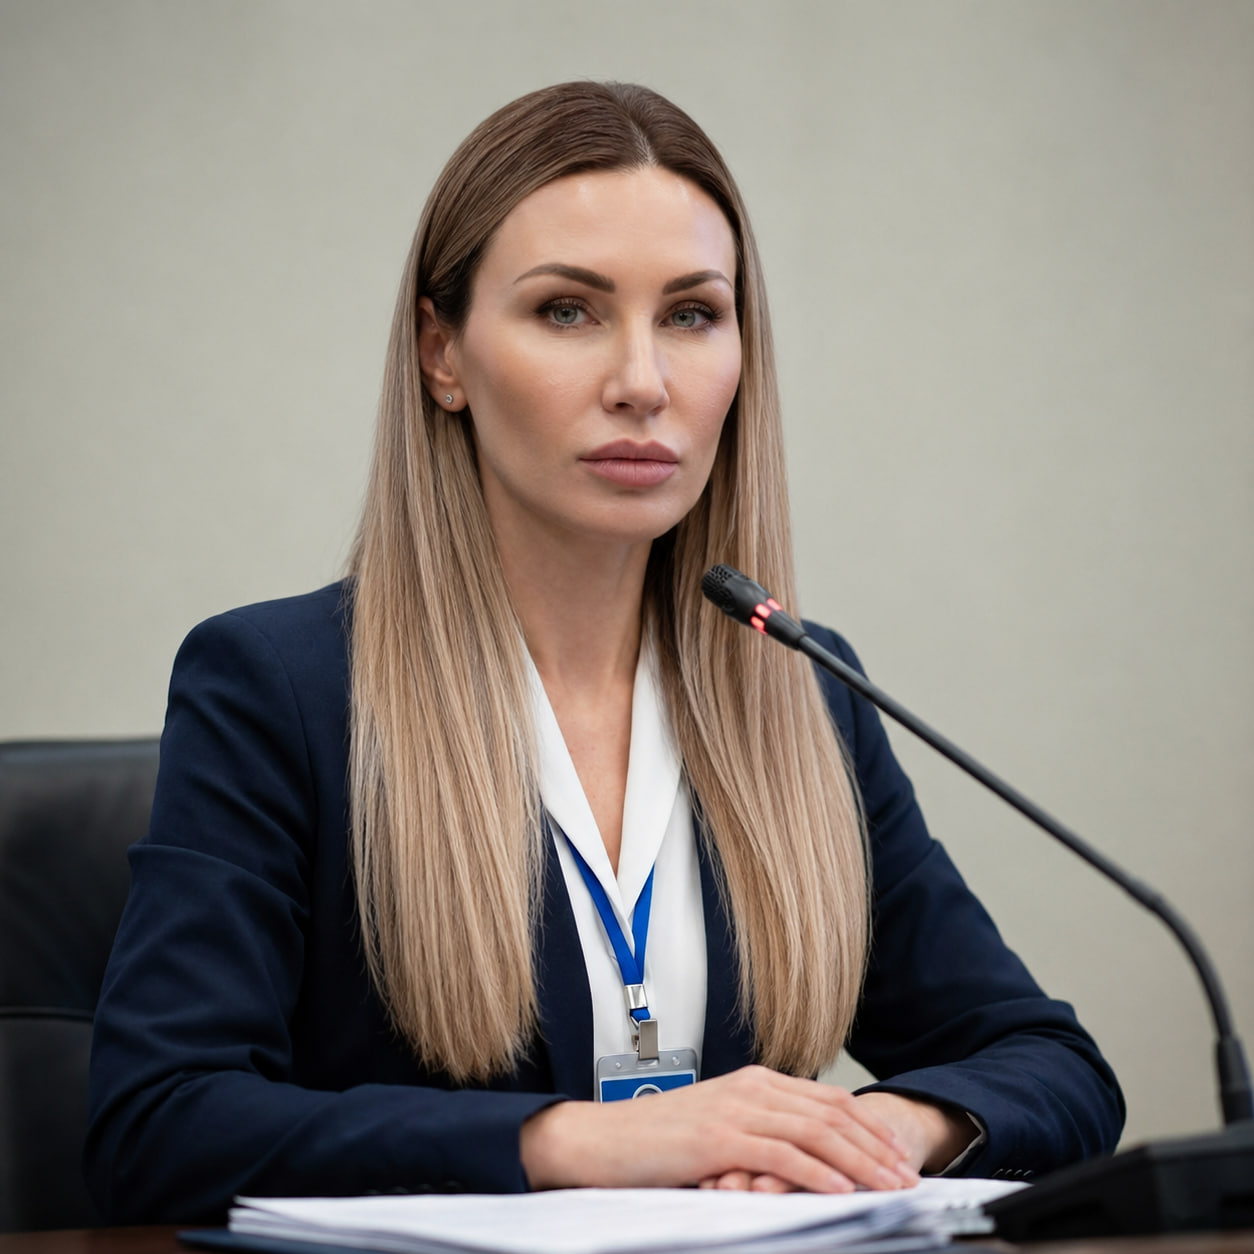
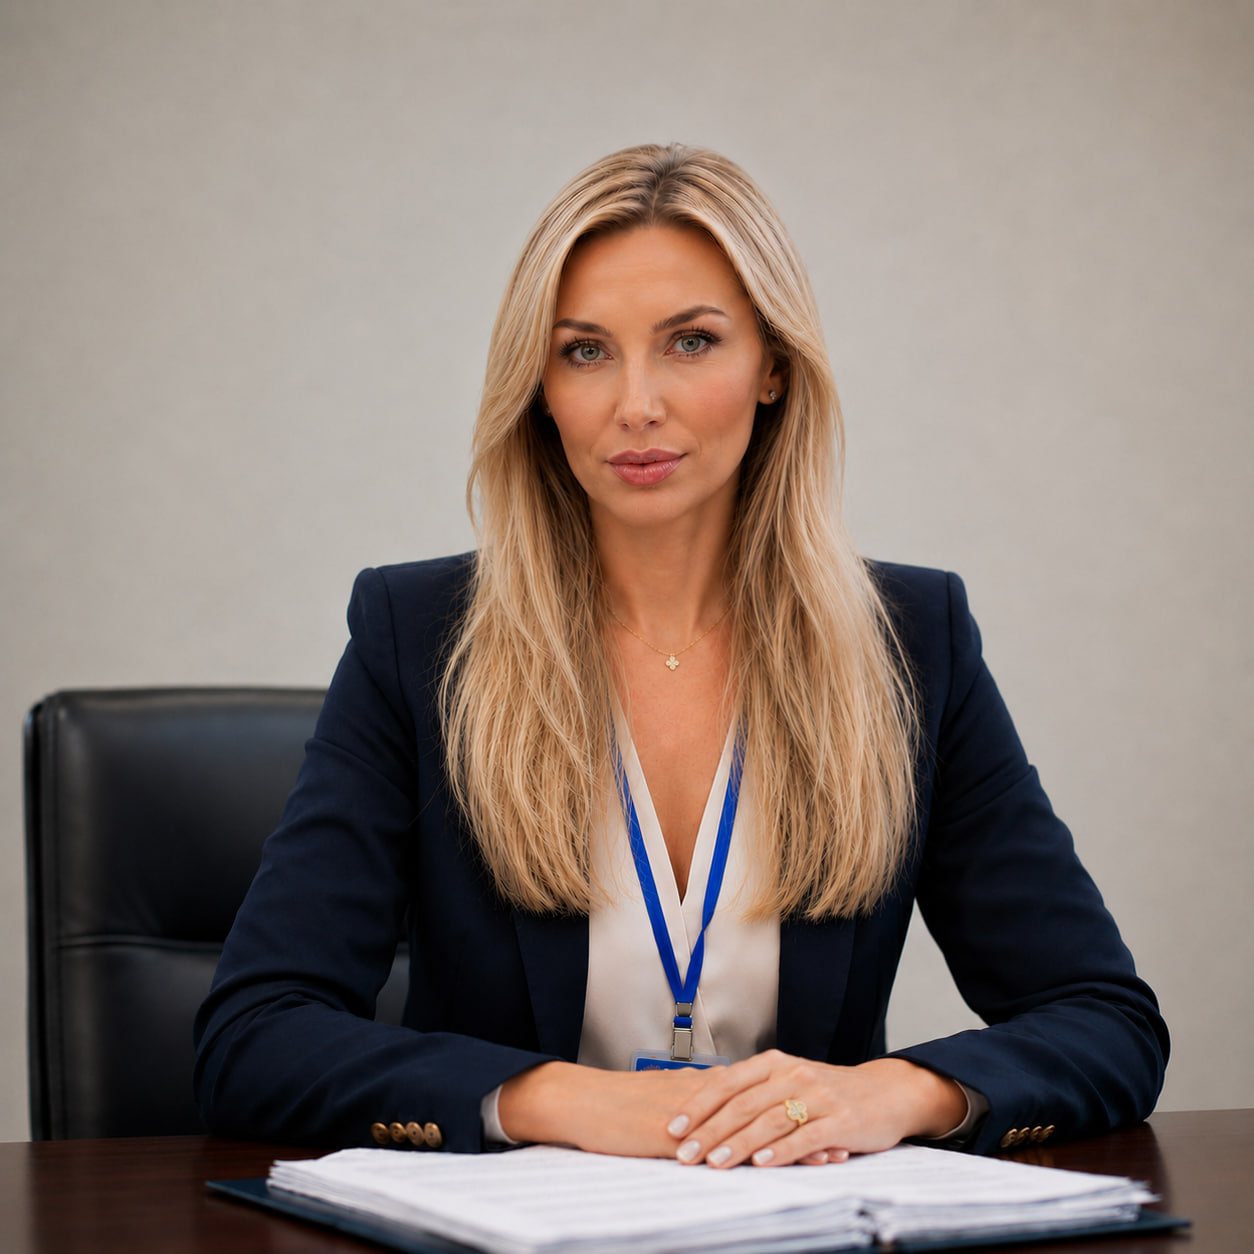
Add files via upload

diff --git a/Samoilova_A_S.html b/Samoilova_A_S.html
@@ -281,6 +281,132 @@
             font-size: 11px; 
             color: #8fa2b5;
         }
+        /* ===== ГАЛЕРЕЯ НАГРАД ===== */
+.awards-gallery {
+    display: grid;
+    grid-template-columns: repeat(3, 1fr);
+    gap: 20px;
+    margin-top: 5px;
+}
+
+.award-item {
+    background: #f8fafc;
+    border: 1px solid #e2e8f0;
+    border-radius: 8px;
+    padding: 15px 10px 12px;
+    text-align: center;
+    cursor: pointer;
+    transition: all 0.25s ease;
+}
+
+.award-item:hover {
+    transform: translateY(-4px);
+    box-shadow: 0 8px 20px rgba(0, 0, 0, 0.08);
+    border-color: #0056b3;
+}
+
+.award-item img {
+    width: 100%;
+    max-height: 140px;
+    object-fit: contain;
+    border-radius: 4px;
+    display: block;
+    margin-bottom: 10px;
+    background: #ffffff;
+}
+
+.award-item span {
+    font-size: 12px;
+    font-weight: 600;
+    color: #1e293b;
+    display: block;
+    letter-spacing: 0.3px;
+}
+
+/* ===== МОДАЛЬНОЕ ОКНО ===== */
+.award-modal {
+    display: none;
+    position: fixed;
+    top: 0;
+    left: 0;
+    width: 100%;
+    height: 100%;
+    background: rgba(10, 31, 51, 0.85);
+    z-index: 3000;
+    justify-content: center;
+    align-items: center;
+    padding: 30px;
+    box-sizing: border-box;
+}
+
+.award-modal-content {
+    background: #ffffff;
+    border-radius: 10px;
+    max-width: 700px;
+    width: 100%;
+    max-height: 90vh;
+    padding: 30px 30px 25px;
+    position: relative;
+    box-shadow: 0 20px 60px rgba(0, 0, 0, 0.3);
+    text-align: center;
+    box-sizing: border-box;
+}
+
+.award-modal-close {
+    position: absolute;
+    top: 12px;
+    right: 20px;
+    font-size: 32px;
+    font-weight: bold;
+    color: #94a3b8;
+    cursor: pointer;
+    transition: color 0.2s;
+    line-height: 1;
+}
+
+.award-modal-close:hover {
+    color: #0a1f33;
+}
+
+.award-modal-content img {
+    width: 100%;
+    max-height: 60vh;
+    object-fit: contain;
+    border-radius: 4px;
+    border: 1px solid #e2e8f0;
+    background: #fafcff;
+}
+
+.award-modal-content p {
+    margin: 18px 0 0 0;
+    font-size: 15px;
+    font-weight: 600;
+    color: #0a1f33;
+    letter-spacing: 0.3px;
+}
+
+/* ===== АДАПТИВ ===== */
+@media screen and (max-width: 600px) {
+    .awards-gallery {
+        grid-template-columns: repeat(3, 1fr);
+        gap: 10px;
+    }
+    .award-item {
+        padding: 10px 6px 10px;
+    }
+    .award-item img {
+        max-height: 80px;
+    }
+    .award-item span {
+        font-size: 10px;
+    }
+    .award-modal-content {
+        padding: 20px 15px 20px;
+    }
+    .award-modal-content p {
+        font-size: 13px;
+    }
+}
 
         @media screen and (max-width: 768px) {
             .navbar-custom {
@@ -446,13 +572,41 @@
             <img src="3к.png" class="forum-photo" alt="Сотрудник на мероприятии">
         </div>
 
-        <div class="section-headline">Награды и поощрения</div>
-        <ul class="awards-list">
-            <li>🎖️ Медаль «За заслуги в укреплении финансовой безопасности» (2023).</li>
-            <li>🎖️ Благодарность директора Росфинмониторинга (2021).</li>
-            <li>🎖️ Почётная грамота Росфинмониторинга (2019).</li>
-        </ul>
+<!-- ===== НАГРАДЫ И ПООЩРЕНИЯ ===== -->
+<div class="section-headline">Награды и поощрения</div>
 
+<!-- СПИСОК НАГРАД -->
+<ul class="awards-list">
+    <li>🎖️ Медаль «За заслуги в укреплении финансовой безопасности» (2023).</li>
+    <li>🎖️ Благодарность директора Росфинмониторинга (2021).</li>
+    <li>🎖️ Почётная грамота Росфинмониторинга (2019).</li>
+</ul>
+
+<!-- ===== ГАЛЕРЕЯ НАГРАД ===== -->
+<div style="margin: 20px 0 30px 0;">
+    <div style="font-size: 13px; font-weight: bold; color: #0056b3; text-transform: uppercase; letter-spacing: 0.5px; margin-bottom: 15px;">
+    </div>
+    <div class="awards-gallery">
+        <div class="award-item" onclick="openModal('medal.png', 'Медаль «За заслуги в укреплении финансовой безопасности»')">
+            <img src="medal.png" alt="">
+        </div>
+        <div class="award-item" onclick="openModal('gramota.png', 'Почётная грамота Росфинмониторинга')">
+            <img src="gramota.png" alt="">
+        </div>
+        <div class="award-item" onclick="openModal('pismo.png', 'Благодарность директора Росфинмониторинга')">
+            <img src="pismo.png" alt="">
+        </div>
+    </div>
+</div>
+
+<!-- ===== МОДАЛЬНОЕ ОКНО ДЛЯ ПРОСМОТРА ФОТО ===== -->
+<div id="awardModal" class="award-modal" onclick="closeModal()">
+    <div class="award-modal-content" onclick="event.stopPropagation()">
+        <span class="award-modal-close" onclick="closeModal()">&times;</span>
+        <img id="modalImage" src="" alt="Награда">
+        <p id="modalCaption">Описание</p>
+    </div>
+</div>
         <div style="background-color: #fff9e6; border-left: 4px solid #ffcc00; padding: 15px; margin: 30px 0; border-radius: 0 4px 4px 0;">
             <p style="margin: 0; font-size: 12.5px; line-height: 1.5; color: #665200; font-style: italic;">
                 * Ряд материалов и деталей профессиональной деятельности сотрудников ведомства не подлежит разглашению ввиду соблюдения регламентов строгой конфиденциальности и защиты данных субъектов финансового мониторинга.
@@ -480,6 +634,32 @@
             </div>
         </div>
     </footer>
+    <script>
+    // ===== ОТКРЫТИЕ МОДАЛКИ =====
+    function openModal(imageSrc, caption) {
+        const modal = document.getElementById('awardModal');
+        const img = document.getElementById('modalImage');
+        const cap = document.getElementById('modalCaption');
+        
+        img.src = imageSrc;
+        cap.textContent = caption;
+        modal.style.display = 'flex';
+        document.body.style.overflow = 'hidden';
+    }
+
+    // ===== ЗАКРЫТИЕ МОДАЛКИ =====
+    function closeModal() {
+        document.getElementById('awardModal').style.display = 'none';
+        document.body.style.overflow = 'auto';
+    }
+
+    // ===== ЗАКРЫТИЕ ПО ESC =====
+    document.addEventListener('keydown', function(e) {
+        if (e.key === 'Escape') {
+            closeModal();
+        }
+    });
+</script>
 
 </body>
 </html>